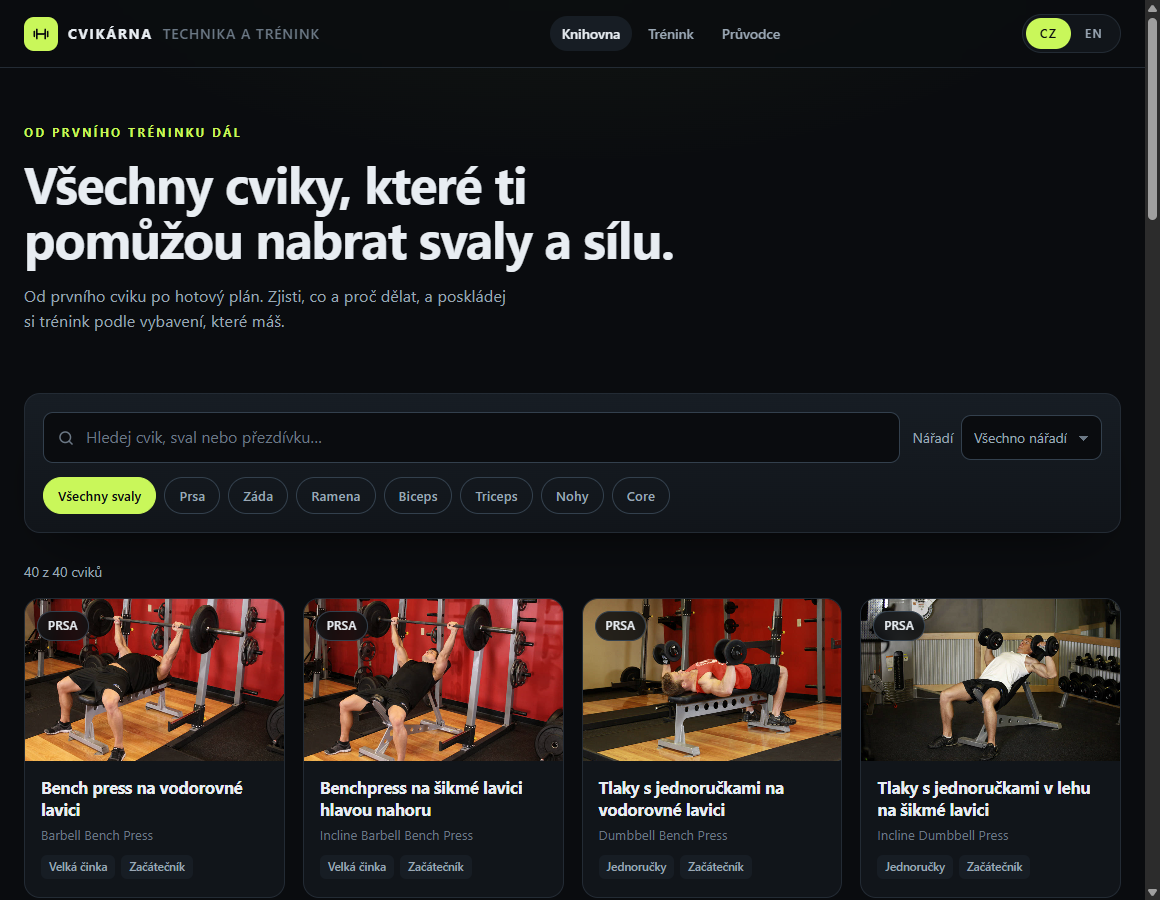
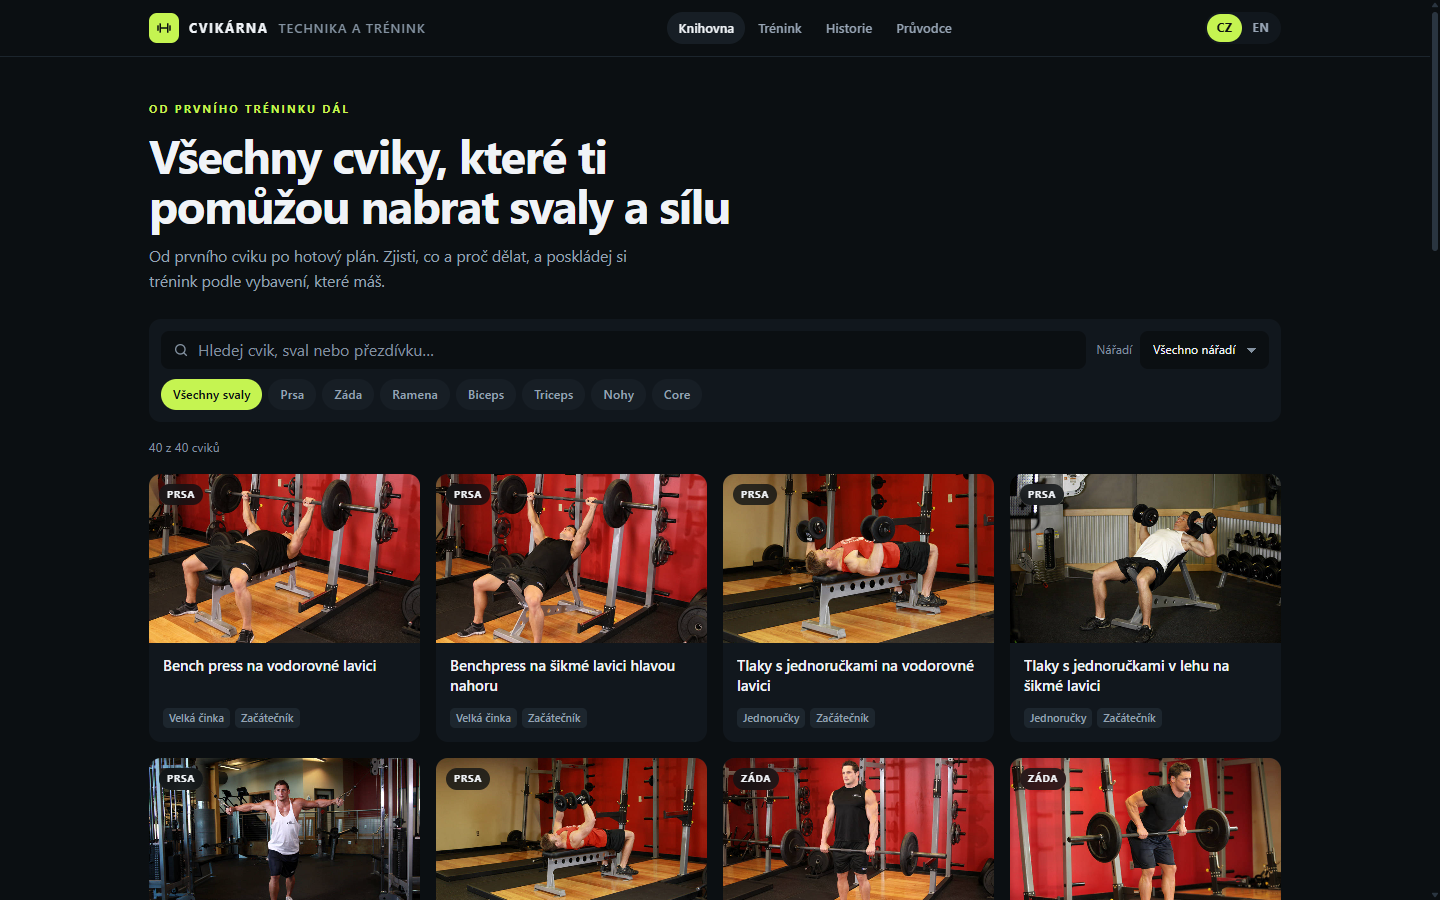
docs: refresh the README and screenshots
- Rewrite the README around the current app and the 40-movement library table
- Recapture the five 1440 px screenshots

diff --git a/README.md b/README.md
@@ -1,6 +1,6 @@
 # Cvikárna
 
-Cvikárna is a Czech-first gym exercise library and workout tracker for people who want to train with the equipment they have. It runs in the browser on React and TypeScript, with an ASP.NET Core API and SQLite behind it. It is a demo project, not a production app.
+Cvikárna is a Czech-first gym app for building muscle with the equipment you have. It carries 40 curated movements with technique and cues, an 876-movement catalogue, a tracker, a month-by-month history and a sourced beginner guide. The app runs on React and TypeScript in the browser, with an ASP.NET Core API and SQLite behind it. Dark theme, Czech and English, demo project.
 
 [github.com/antalnn/cvikarna](https://github.com/antalnn/cvikarna)
 
@@ -8,65 +8,163 @@ Cvikárna is a Czech-first gym exercise library and workout tracker for people w
 
 ## Contents
 
+- [Contents](#contents)
 - [Features](#features)
-  - [Czech names, not machine translations](#czech-names-not-machine-translations)
-  - [Every movement in the dataset](#every-movement-in-the-dataset)
-  - [Equipment you actually have](#equipment-you-actually-have)
-  - [Numbers with formulas](#numbers-with-formulas)
-  - [A guide with sources](#a-guide-with-sources)
+  - [Library and technique](#library-and-technique)
+  - [Tracker](#tracker)
+  - [History](#history)
+  - [Guide](#guide)
+  - [Language and theme](#language-and-theme)
+- [The exercise library](#the-exercise-library)
 - [Architecture](#architecture)
 - [Getting started](#getting-started)
 - [Tests](#tests)
 - [Data](#data)
 - [License](#license)
 
-Most trackers are English-first, they only let you log movements from their list, and they assume you already know how to train. Cvikárna is the opposite: Czech names people actually use, every movement in the dataset, a filter for the equipment you own, and a guide that explains the basics.
-
 ## Features
 
-### Czech names, not machine translations
+### Library and technique
 
-The library has 40 curated movements with Czech names checked against Czech gym sources. Every entry carries both languages, aliases, instructions and cues. Search ignores diacritics and one wrong letter, so `mrty tah` finds `mrtvý tah`, and the language switch changes the whole app.
+The library holds 40 movements with a photo, both names, aliases, numbered steps and cues. Filter by muscle group and by the equipment you own. Search ignores diacritics, so `mrty tah` finds `mrtvý tah`, and it forgives one wrong letter in a word of four letters or more. The detail page pairs the demonstration photo with the numbered steps, then lists the cues as plain lines and ends with similar movements.
 
-### Every movement in the dataset
+![Cvikárna exercise detail with numbered steps and cues](docs/images/detail.png)
 
-The catalogue holds all 876 movements from [free-exercise-db](https://github.com/yuhonas/free-exercise-db) as thin rows. The tracker can log any of them. The 40 library entries keep their photos, technique and coaching text; the rest are name, muscle, equipment and level.
+### Tracker
 
-![Cvikárna tracker with a logged set](docs/images/tracker.png)
+The tracker opens today's session. Name it, and rename it later from the pencil beside the title. Add a movement from the library or from the full catalogue, then log weight, reps, RPE and a note for each set. The RPE question mark explains the 1 to 10 scale. Drag a set or an exercise to reorder it, or focus its handle and press Arrow Up or Arrow Down. Copy a past workout repeats its exercises, sets, weights, reps, RPE and notes in today's session, in the same order.
 
-### Equipment you actually have
+![Cvikárna tracker with a named session, logged sets and the copy button](docs/images/tracker.png)
 
-Filter the library and the picker by barbell, dumbbells, cable, machine, bodyweight, EZ bar or accessory. A beginner with two dumbbells can find a full workout without scrolling past a bench press.
+### History
 
-### Numbers with formulas
+The calendar marks only days that have exercises. The month panel lists those workouts, newest or oldest first, with exercise count, set count and volume. A selected workout opens as a read-only log with collapsible exercise groups, one shared column header and a Detail link per movement. A named workout shows its name in the month list and above the date, and the pencil there renames it without leaving the page.
 
-Volume is weight times reps. Estimated 1RM uses Epley. Personal bests and weekly sets per muscle come from the same logged sets. The formulas live in C# and have unit tests.
+![Cvikárna history with a named workout and a read-only log](docs/images/history.png)
 
-![Cvikárna exercise detail with recent sets and stats](docs/images/detail.png)
+### Guide
 
-### A guide with sources
+The guide covers training, protein, calories, sleep and recovery in five collapsible sections. Each section has key points, bold facts inside the copy and its own sources with the claim each paper supports. Three of the five sections also carry a diagram: the rep-range spread, the protein dose plateau and the sleep band. The sourcing is beginner-level guidance, not medical advice.
 
-A beginner page on rep ranges, effort and progression. Every claim names the paper behind it.
+![Cvikárna beginner guide with key points, sources and a diagram](docs/images/guide.png)
+
+### Language and theme
+
+Czech is the default and English is one click away. The choice lives in `localStorage`, and every view reads one language at a time. The theme is dark only, with a lime accent and one spacing scale shared by every page.
+
+## The exercise library
+
+The 40 curated movements, grouped by primary muscle. The Czech name is the one the app shows by default, and the English name is what the other language switches to. The watch-for line is the first cue from the seed data, not a new summary.
+
+**Chest**
+
+| Czech name | English name | Equipment | Level | Watch for |
+| --- | --- | --- | --- | --- |
+| Bench press na vodorovné lavici | Barbell Bench Press | Barbell | Beginner | Keep the shoulder blades pinched for the whole set. |
+| Benchpress na šikmé lavici hlavou nahoru | Incline Barbell Bench Press | Barbell | Beginner | Do not let the bench angle turn this into a shoulder press. |
+| Tlaky s jednoručkami na vodorovné lavici | Dumbbell Bench Press | Dumbbells | Beginner | Dumbbells travel in a slight arc, not straight up. |
+| Tlaky s jednoručkami v lehu na šikmé lavici | Incline Dumbbell Press | Dumbbells | Beginner | Keep the elbows at about 45 degrees from the torso. |
+| Stahování protisměrných kladek | Cable Crossover | Cable | Beginner | Think about hugging a tree, not pressing. |
+| Rozpažky na vodorovné lavici | Dumbbell Fly | Dumbbells | Beginner | This is a stretch, not a press, keep the elbow angle fixed. |
+
+**Back**
+
+| Czech name | English name | Equipment | Level | Watch for |
+| --- | --- | --- | --- | --- |
+| Klasický mrtvý tah | Barbell Deadlift | Barbell | Intermediate | The bar stays in contact with the legs the whole way up. |
+| Přítahy osy v předklonu | Bent-Over Barbell Row | Barbell | Beginner | Pull with the elbows, not the hands. |
+| Shyby nadhmatem | Pull-Up | Bodyweight | Beginner | Start the pull from the shoulder blades, not the arms. |
+| Stahování horní kladky | Wide-Grip Lat Pulldown | Cable | Beginner | Aim the chest up to meet the bar. |
+| Přítahy spodní kladky | Seated Cable Row | Cable | Beginner | Keep the torso upright, do not row with the lower back. |
+| Přítahy jednoručky v předklonu | One-Arm Dumbbell Row | Dumbbells | Beginner | Do not rotate the torso to lift the weight. |
+
+**Shoulders**
+
+| Czech name | English name | Equipment | Level | Watch for |
+| --- | --- | --- | --- | --- |
+| Tlaky s osou v sedě | Seated Barbell Press | Barbell | Intermediate | Keep the ribs down, do not arch to finish the press. |
+| Tlaky s jednoručkami v sedě | Dumbbell Shoulder Press | Dumbbells | Intermediate | Keep the elbows slightly in front of the shoulders. |
+| Upažování s jednoručkami | Side Lateral Raise | Dumbbells | Beginner | Lead with the elbows, not the hands. |
+| Upažování s jednoručkami v předklonu | Reverse Fly | Dumbbells | Beginner | Think about squeezing the shoulder blades together. |
+| Face pull | Face Pull | Cable | Intermediate | Finish with the hands beside the ears and the elbows high. |
+
+**Biceps**
+
+| Czech name | English name | Equipment | Level | Watch for |
+| --- | --- | --- | --- | --- |
+| Bicepsový zdvih s osou ve stoje | Barbell Curl | Barbell | Beginner | The elbows stay still, only the forearms move. |
+| Bicepsový zdvih s jednoručkami | Dumbbell Curl | Dumbbells | Beginner | Rotating the wrist slightly outward adds a squeeze. |
+| Kladivový zdvih s jednoručkami | Hammer Curl | Dumbbells | Beginner | The thumbs point up the whole time. |
+| Bicepsový zdvih na Scottově lavici | Preacher Curl | Barbell | Beginner | The pad does the cheating prevention for you, use it. |
+
+**Triceps**
+
+| Czech name | English name | Equipment | Level | Watch for |
+| --- | --- | --- | --- | --- |
+| Benchpress na úzko | Close-Grip Bench Press | Barbell | Beginner | The wrists stay over the elbows, no flaring out. |
+| Tricepsový zdvih osy v lehu | Lying Triceps Extension | EZ bar | Intermediate | Only the forearms move. |
+| Stahování lana na triceps | Rope Triceps Pushdown | Cable | Beginner | Keep the elbows glued to the sides. |
+| Tricepsové stahování horní kladky s lanem přes hlavu | Overhead Cable Triceps Extension | Cable | Beginner | Keep the upper arms beside the head, not moving. |
+
+**Quads**
+
+| Czech name | English name | Equipment | Level | Watch for |
+| --- | --- | --- | --- | --- |
+| Dřep s osou za hlavou | Barbell Back Squat | Barbell | Beginner | Knees track over the toes. |
+| Dřep s činkou vpředu | Front Squat | Barbell | Expert | If the elbows drop, the bar drops. |
+| Legpress na šikmé lavici | Leg Press | Machine | Beginner | Do not let the lower back round off the pad. |
+| Předkopávání | Leg Extension | Machine | Beginner | Squeeze the quads at the top for a second. |
+| Výpady v chůzi | Walking Lunge | Barbell | Beginner | The front knee stays over the foot. |
+
+**Hamstrings**
+
+| Czech name | English name | Equipment | Level | Watch for |
+| --- | --- | --- | --- | --- |
+| Rumunský mrtvý tah | Romanian Deadlift | Barbell | Intermediate | The bar stays in contact with the thighs. |
+| Zakopávání v leže | Lying Leg Curl | Machine | Beginner | Keep the hips on the pad, do not lift them. |
+
+**Glutes**
+
+| Czech name | English name | Equipment | Level | Watch for |
+| --- | --- | --- | --- | --- |
+| Hip thrust | Barbell Hip Thrust | Barbell | Intermediate | Tuck the chin and keep the ribs down at the top. |
+
+**Calves**
+
+| Czech name | English name | Equipment | Level | Watch for |
+| --- | --- | --- | --- | --- |
+| Výpony na lýtka ve stoje | Standing Calf Raise | Machine | Beginner | Full range, from deep stretch to full contraction. |
+| Výpony na lýtka v sedě | Seated Calf Raise | Machine | Beginner | The bent knee targets the soleus, that is intended. |
+
+**Core**
+
+| Czech name | English name | Equipment | Level | Watch for |
+| --- | --- | --- | --- | --- |
+| Plank | Plank | Bodyweight | Beginner | Pull the belly button toward the spine. |
+| Vznosy ve visu | Hanging Leg Raise | Bodyweight | Expert | Curl the pelvis up, do not just lift the legs. |
+| Zkracovačky na horní kladce | Cable Crunch | Cable | Beginner | Crunch the ribs down, do not pull with the arms. |
+| Rollout s kolečkem | Ab Roller Rollout | Accessory | Intermediate | Go only as far as you can keep the ribs down. |
+| Pallof press | Pallof Press | Cable | Beginner | Resist the pull, do not let the torso twist. |
 
 ## Architecture
 
 ```text
-React + TypeScript
-  ├─ library, detail, tracker, guide
+React 19 + TypeScript
+  ├─ library, detail, tracker, history, guide
   ├─ hand-rolled cs/en dictionary
   └─ typed fetch client
         │
         ▼
-ASP.NET Core minimal API
+ASP.NET Core 10 minimal API
   ├─ exercises, catalogue, workouts, sets, stats
-  ├─ search, validation, DTOs
-  └─ EF Core + SQLite
+  ├─ names, copy, reorder, search, validation, DTOs
+  └─ EF Core 10 + SQLite
         │
         ▼
 SQLite
 ```
 
-The API serves the exercise images. In development Vite proxies `/api` to the API.
+In development Vite proxies `/api` to the API, so the browser sees one origin.
 
 ## Getting started
 
@@ -78,7 +176,7 @@ Start the API from the repository root:
 dotnet run --project api --launch-profile http
 ```
 
-The API answers at `http://localhost:5073`. The first run creates `cvikarna.db`, applies the migration and seeds the 40 library rows and 876 catalogue rows. Swagger is at `http://localhost:5073/swagger` in Development.
+The API answers at `http://localhost:5073`. The first run creates `cvikarna.db`, applies the migrations and seeds the 40 library rows and 876 catalogue rows. Swagger is at `http://localhost:5073/swagger` in Development.
 
 Start the web app in a second terminal:
 
@@ -103,13 +201,15 @@ npm run lint
 npm run build
 ```
 
-The server suite has 29 tests. It covers search, catalogue ids, stats formulas, the read API, workout sessions and set validation.
+The server suite has 48 tests. It covers search and diacritic normalization, catalogue ids, stats formulas, the read API, workout sessions, set validation, set and exercise reorder, workout names and copying a workout.
 
 ## Data
 
 The 40 curated movements, their English names and their photos come from [free-exercise-db](https://github.com/yuhonas/free-exercise-db), released into the public domain under the Unlicense. Czech names are checked against Czech gym sources.
 
 The catalogue is built from the same dataset. It keeps four display fields per movement and no Czech name outside the curated 40. `nameCs` is null there, and the UI falls back to English instead of inventing a translation.
+
+The guide lists its papers in the app and in [docs/sources.md](docs/sources.md), with the claim each paper supports and what it does not show.
 
 A known limit: the reverse fly photos show the chest-supported version on an incline bench, the only dumbbell rear-delt setup the dataset photographs. The standing version is described in the cues, not shown in a photo.
 
